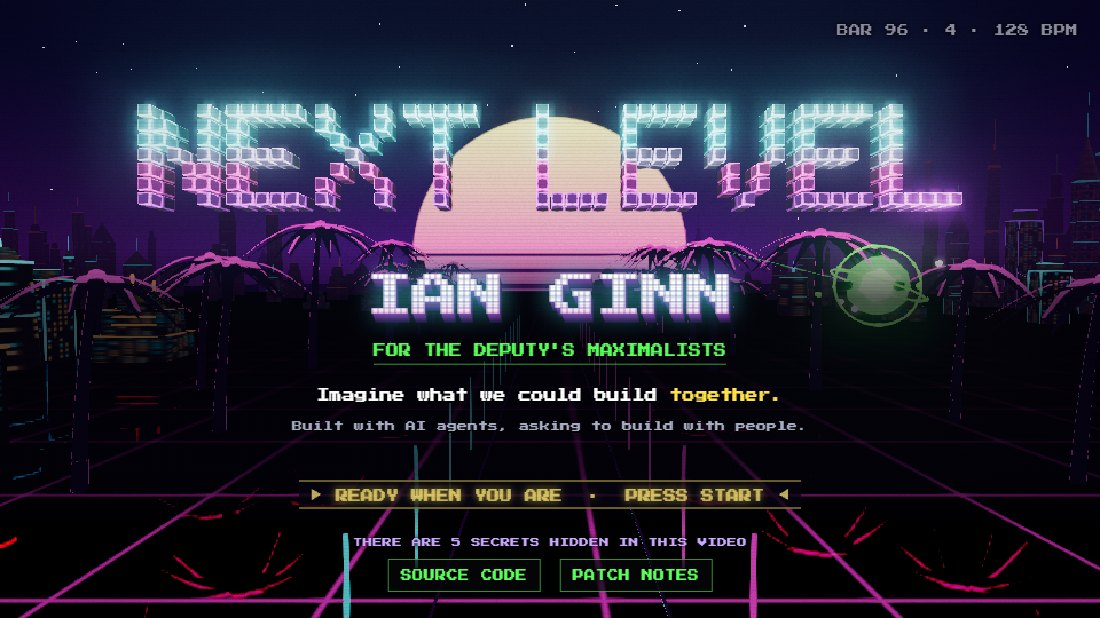
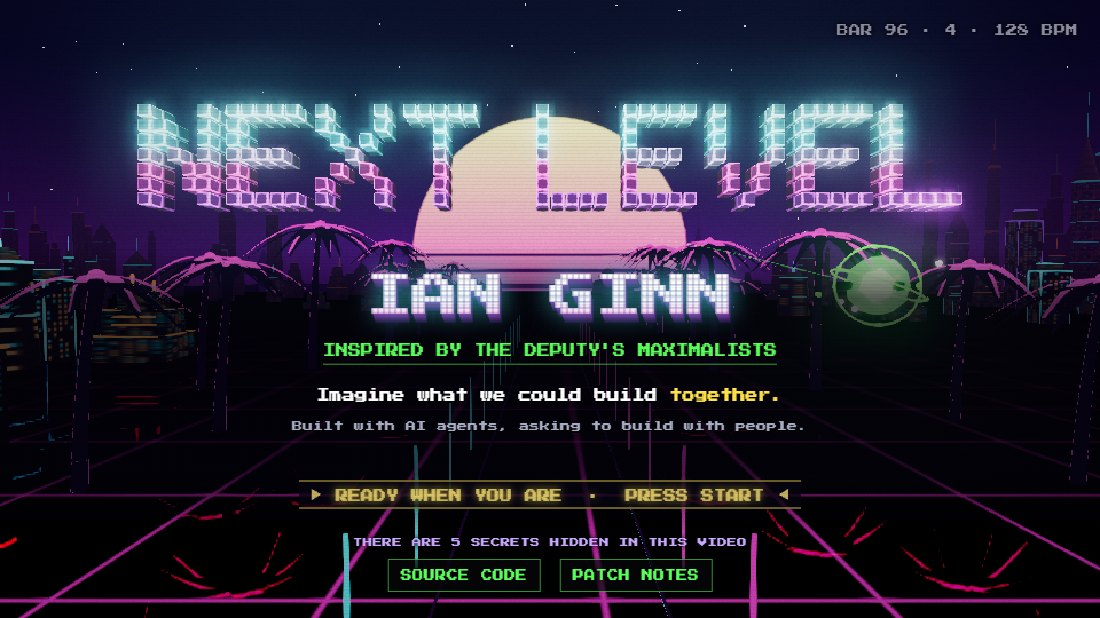
End card and title: INSPIRED BY THE DEPUTY'S MAXIMALISTS

Changed region(s): [[0.2782, 0.5534, 0.7109, 0.6149]]

diff --git a/index.html b/index.html
@@ -5,13 +5,13 @@
 <meta name="google" content="notranslate">
 <meta name="viewport" content="width=device-width,initial-scale=1,viewport-fit=cover,user-scalable=no">
 <title>Next Level</title>
-<meta name="description" content="A three-minute playable music video: I leveled up with AI the way gaming did, just a lot faster. Ian Ginn for the Deputy's Maximalists.">
+<meta name="description" content="A three-minute playable music video: I leveled up with AI the way gaming did, just a lot faster. By Ian Ginn, inspired by the Deputy's Maximalists.">
 <meta name="theme-color" content="#07070b">
 <meta name="apple-mobile-web-app-capable" content="yes">
 <meta name="apple-mobile-web-app-status-bar-style" content="black-translucent">
 <meta name="apple-mobile-web-app-title" content="Maximalist">
 <meta property="og:title" content="Next Level">
-<meta property="og:description" content="I leveled up with AI the way gaming did, just a lot faster. A playable music video by Ian Ginn for the Deputy's Maximalists.">
+<meta property="og:description" content="I leveled up with AI the way gaming did, just a lot faster. A playable music video by By Ian Ginn, inspired by the Deputy's Maximalists.">
 <meta property="og:type" content="website">
 <meta property="og:image" content="og.png">
 <meta name="twitter:card" content="summary_large_image">

diff --git a/src/main.ts b/src/main.ts
@@ -96,7 +96,7 @@ function blitCRT(lo,t){if(CRT.ok){CRT.render(lo,t,1);ctx.save();ctx.imageSmoothi
 function drawE3(t){if(E3GL.ok){E3GL.render(t);ctx.save();ctx.imageSmoothingEnabled=false;ctx.drawImage(E3GL.canvas(),0,0,W,H);ctx.restore();E3.overlay(ctx,t)}else{ctx.fillStyle='#1a1a2e';ctx.fillRect(0,0,W,H);ctx.fillStyle='#fff';ctx.font="10px 'Press Start 2P',monospace";ctx.fillText('WEBGL REQUIRED FOR THE RACER',W/2-150,H/2)}}
 function drawE5(t){if(E5GL.ok){E5GL.render(t);ctx.save();ctx.imageSmoothingEnabled=true;ctx.drawImage(E5GL.canvas(),0,0,W,H);ctx.restore();E5.overlay(ctx,t)}else E5.draw(ctx,t)}
 
-const CARD={name:'IAN GINN',program:"FOR THE DEPUTY'S MAXIMALISTS",title:'NEXT LEVEL',thesis:['I leveled up the way gaming did.','Just a lot faster.'],credit:'Built with AI agents, asking to build with people.',invite:'Imagine what we could build together.'};
+const CARD={name:'IAN GINN',program:"INSPIRED BY THE DEPUTY'S MAXIMALISTS",title:'NEXT LEVEL',thesis:['I leveled up the way gaming did.','Just a lot faster.'],credit:'Built with AI agents, asking to build with people.',invite:'Imagine what we could build together.'};
 function cards(t){ctx.setTransform(dpr,0,0,dpr,0,0);
  if(startUp){START.drawStart(ctx,idleT);return}
  if(t<START.FL_END){START.drawFlourish(ctx,t,sway0);return}

diff --git a/src/era5.ts b/src/era5.ts
@@ -76,7 +76,7 @@ function update(dt,t,inp,auto){if(t<s5-TRANS)return;S.t=t;S.dist=xAt(t);S.tunnel
 // "Ready when you are. Press start." and the card's prompt are never on screen together. Times in bars.
 const CARD={fly:94.0,lock:95.0,name:95.0,nameIn:0.125,prog:95.19,invite:95.3,credit:95.45,capOff:95.5,prompt:95.625,
  nameY:0.48,progY:0.567,inviteY:0.64,creditY:0.69,promptY:0.80,nameFont:40,progFont:11,copilotX:0.875}; // layout: canvas fractions / px
-const CT={name:'IAN GINN',sep:'  ·  ',prog:"FOR THE DEPUTY'S MAXIMALISTS",invite:'Imagine what we could build together.',credit:'Built with AI agents, asking to build with people.',prompt:'READY WHEN YOU ARE  ·  PRESS START'};
+const CT={name:'IAN GINN',sep:'  ·  ',prog:"INSPIRED BY THE DEPUTY'S MAXIMALISTS",invite:'Imagine what we could build together.',credit:'Built with AI agents, asking to build with people.',prompt:'READY WHEN YOU ARE  ·  PRESS START'};
 const ease3=(x:number)=>1-Math.pow(1-clamp(x,0,1),3);
 function card(ctx:CanvasRenderingContext2D,t:number){const b=cbInv(t);if(b<CARD.fly)return;const dpr=ctx.getTransform().a||1;
  // the hold after the song ends keeps the prompt alive on the wall clock (t stops at TOTAL)

diff --git a/src/startgl.ts b/src/startgl.ts
@@ -104,7 +104,7 @@ function type(x:CanvasRenderingContext2D,a:number,it:number,nameA:number){if(a<=
  x.globalAlpha=1;
  const pl=plate('IAN GINN',MOBILE?40:36);drawPlate(x,pl,W/2,NAMEY,{a:nameA,sweep:((it%5)-0.6)/1.1});
  if(a<=0){x.restore();return}x.globalAlpha=a;
- text(x,"FOR THE DEPUTY'S MAXIMALISTS",W/2,MOBILE?214:204,Math.round(12*k),'#5bff5b');
+ text(x,"INSPIRED BY THE DEPUTY'S MAXIMALISTS",W/2,MOBILE?214:204,Math.round(12*k),'#5bff5b');
  text(x,'I leveled up the way gaming did.',W/2,238,Math.round(11*k),'#ffffff');
  text(x,'Just a lot faster.',W/2,261,Math.round(11*k),'#ffe14d');
  // five chapters: one row of cartridges, the analogy at a glance (kept deliberately sparse: title, name, tagline, stages, start)
